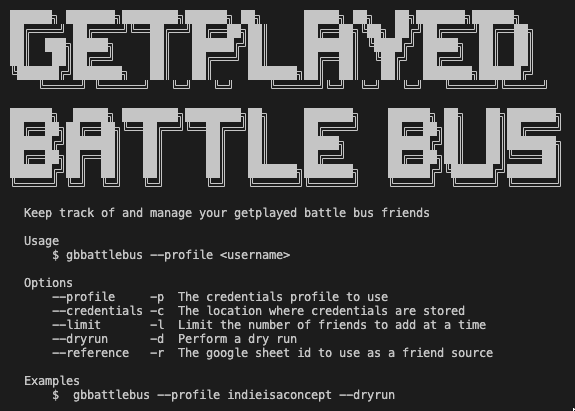
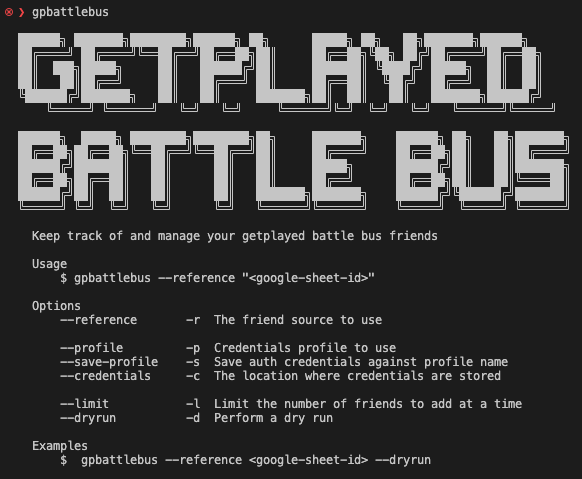
Add support for running on non-trusted environments

diff --git a/README.md b/README.md
@@ -23,17 +23,24 @@ $ npx github:indieisaconcept/gpbattlebus
 
 Note you will need to supply the flag `--reference`. The value for this can be found in the getplayed discord.
 
-`$ npx github:indieisaconcept/gpbattlebus --profile <username>`
+`$ npx github:indieisaconcept/gpbattlebus --reference <value>`
 
-1. Login using supplied found credentials
-2. Fetch friends list from Google Sheet
+1. Login using using authorisation code
+2. Fetch friends list using reference
 3. Add missing friends
 
-`$ npx github:indieisaconcept/gpbattlebus --profile <username> --dryrun`
+`$ npx github:indieisaconcept/gpbattlebus --profile <username> --reference <value> --dryrun`
 
 1. Login using supplied found credentials
 2. Fetch friends list from Google Sheet
 3. Display summary of current friendships
+
+`$ npx github:indieisaconcept/gpbattlebus --profile <username> --save-profile --reference <value>`
+
+1. Login using supplied found credentials
+2. Save credentials against profile name
+3. Fetch friends list from Google Sheet
+4. Display summary of current friendships
 
 #### Authentication
 
@@ -62,6 +69,12 @@ Credentials are saved to `./authDevice.json` and scoped based on the supplied pr
 
 The location of your credentials file can be overriden by suppling a value for `--credentials`.
 
+##### Running on public
+
+To disable profile usage and saving set the ENV flag "PUBLIC_ENV". When set you must use an authentication token each time. When this feature is enabled you will see the following message.
+
+`# PUBLIC ENVIRONMENT DETECTED PROFILE USE IS DISABLED`
+
 ### Contributing
 
 In lieu of a formal styleguide, take care to maintain the existing coding style. Add unit tests for any new or changed functionality. Lint and test your code using npm test
@@ -79,5 +92,7 @@ In the future I plan to add support via a flag to use this users friend list ins
 ### Release History
 
 - 1.0.0 Initial release
+- 2.0.0 Support running on public hosts
+  - Profile persistence is now managed via a flag `--save-profile`
 
 Hey ... you just got played 🪣
